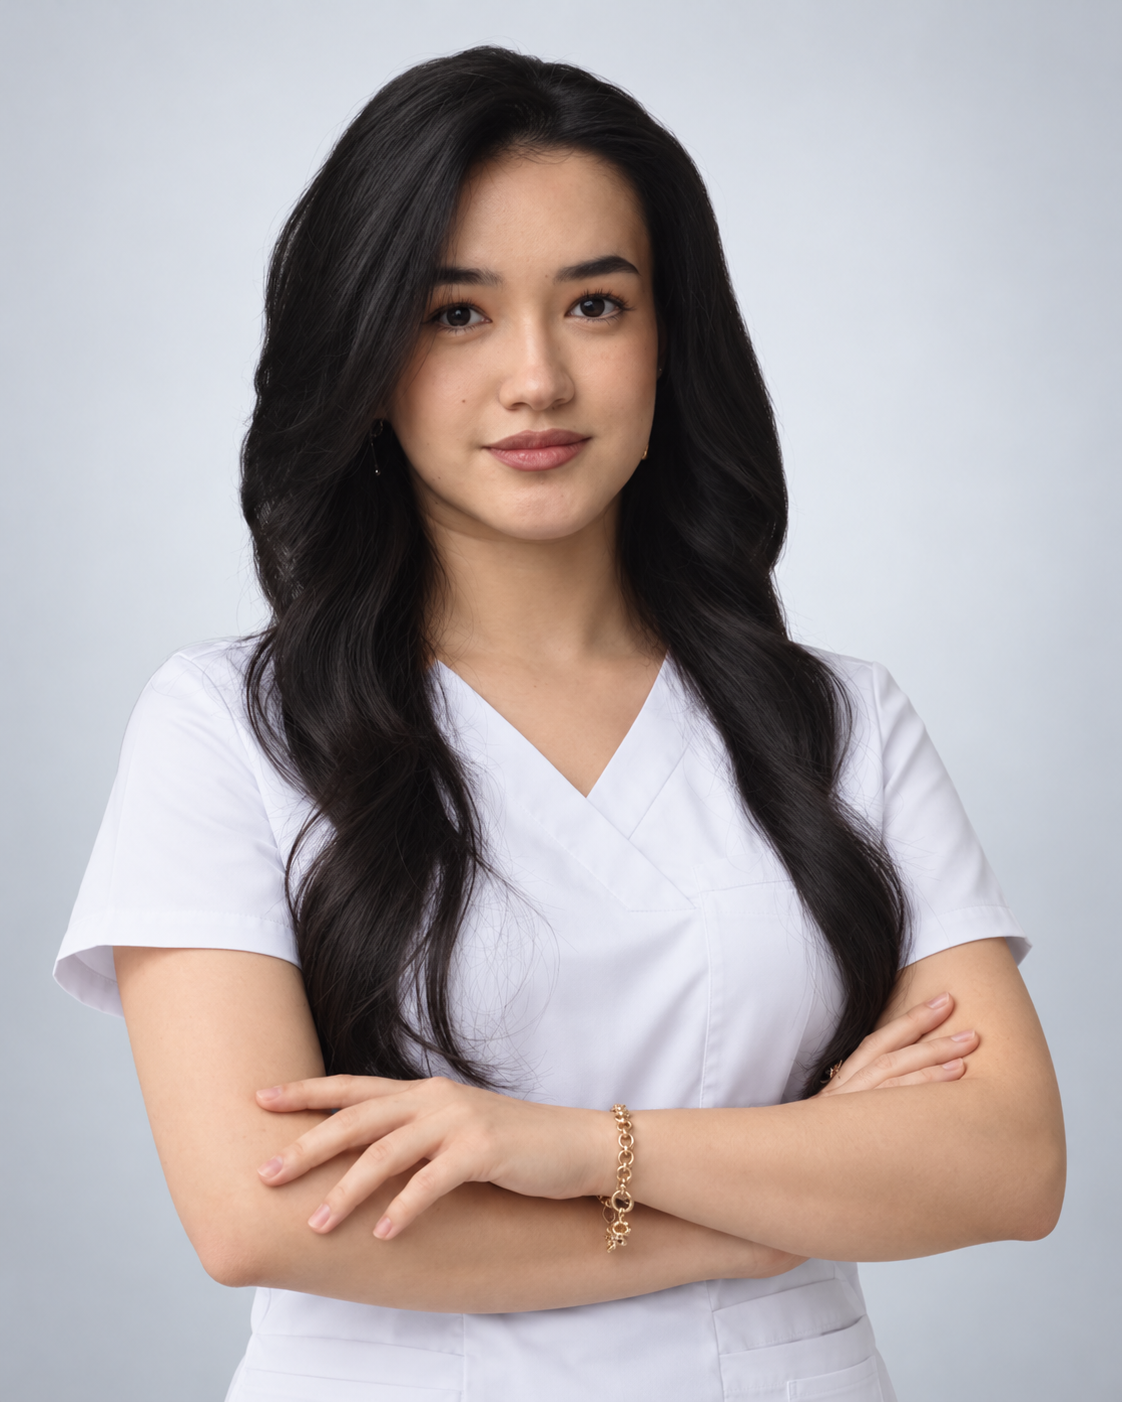
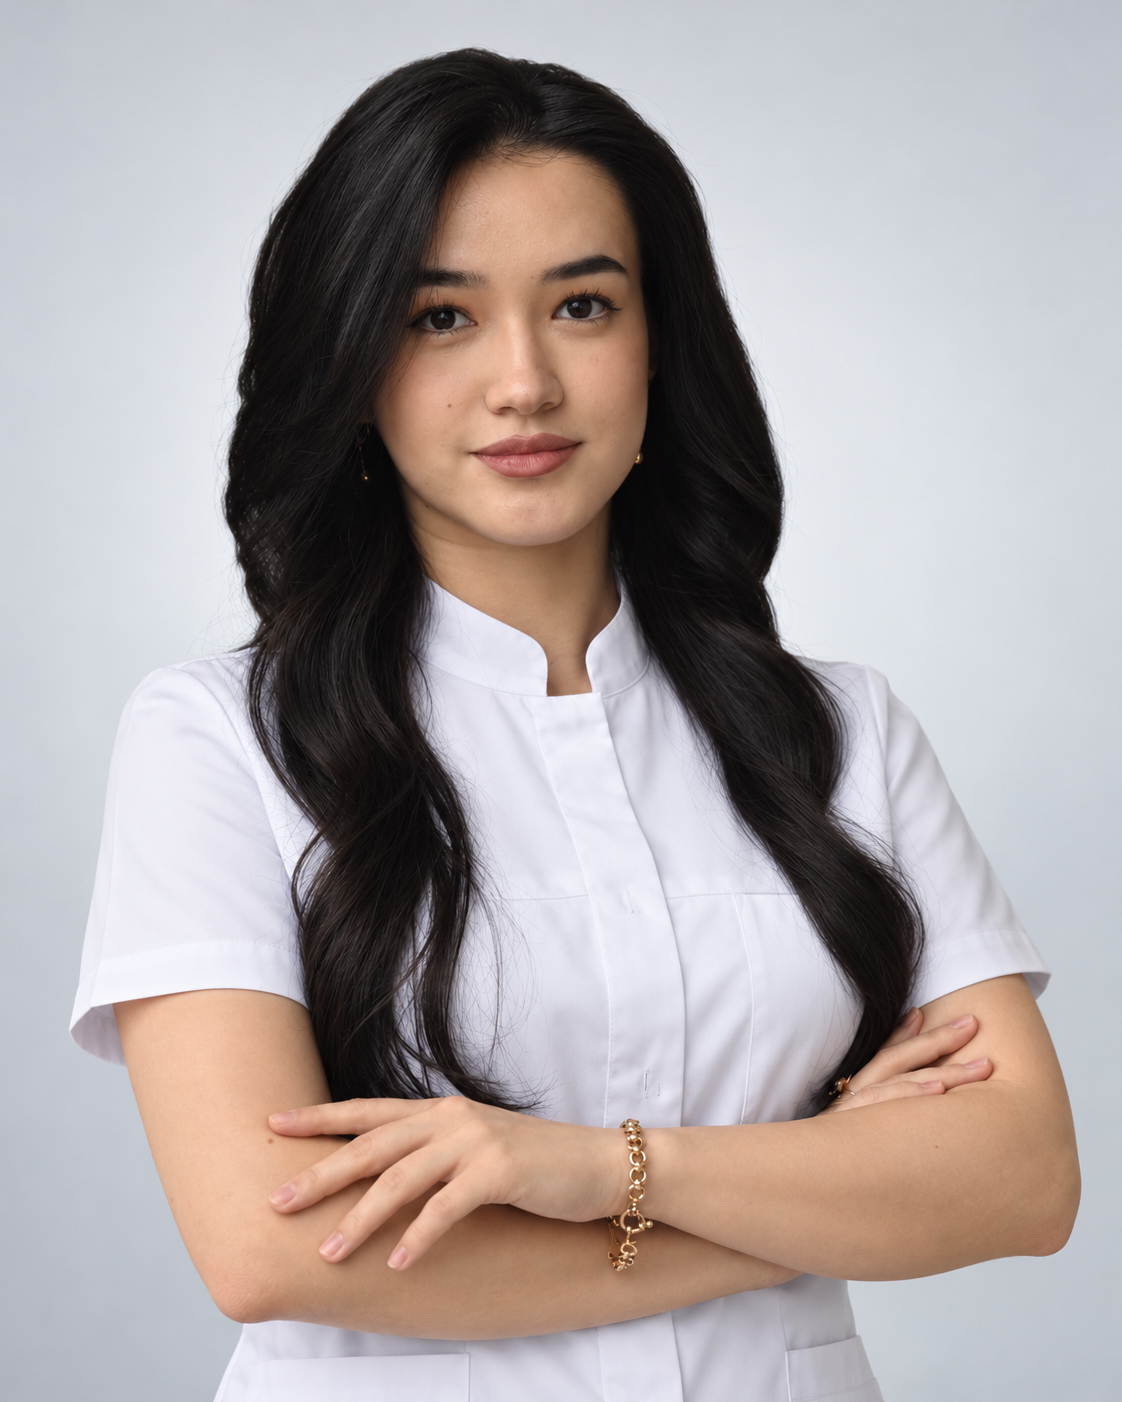
Портрет Никоновой и Хусейнова в общем фасоне формы
Все 11 портретов врачей готовы, у всех одинаковый белый китель
со стойкой.

diff --git a/gen/INDEX.md b/gen/INDEX.md
@@ -14,4 +14,4 @@
 | doc-koldasov.png | Колдасов Мухамедали Хамитович | сайт, медиатека, файл с ФИО | 1122×1402 | узнаётся |
 | doc-gadzhiev.png | Гаджиев Кямран Надирович | сайт, страница врача | 1122×1402 | узнаётся |
 | doc-rudnev.png | Руднев Даниил Сергеевич | сайт, страница врача | 1122×1402 | узнаётся |
-| doc-nikonova.png | Никонова Наталья Николаевна | сторис Яндекса «Специалисты» (Толстого), кадр с подписью | — | ещё не готов |
+| doc-nikonova.png | Никонова Наталья Николаевна | сторис Яндекса «Специалисты» (Толстого), кадр с подписью | 1122×1402 | узнаётся |
